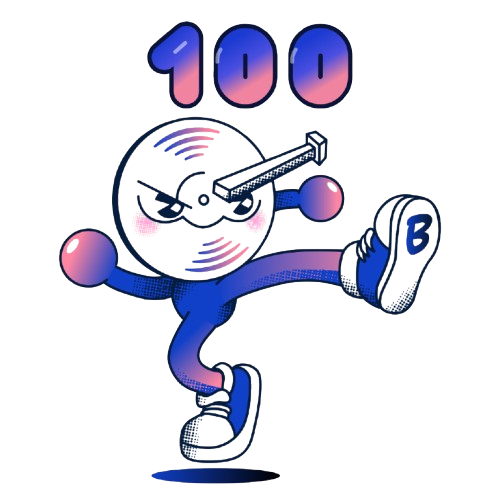
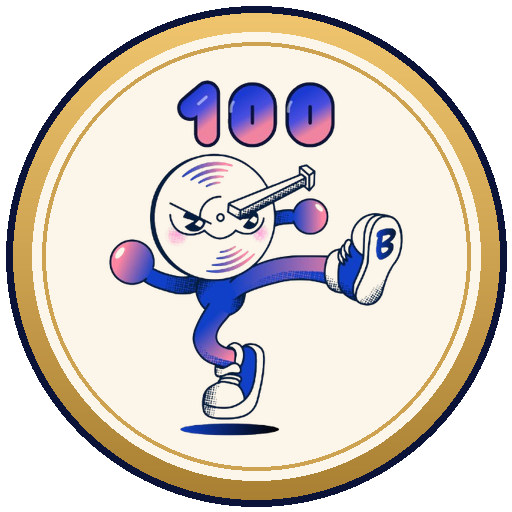
fix(achievements+social): Xenon в допуске сотни, эмаль под маскотом, честный счёт пластинок
- FOUNDER_ALLOWLIST += xenon (живой бетер, реген 31.05, вне отсечки);
- маскоту OG1 собрана эмалевая подложка в стайл-паке (скрипт
  compose_og1_design.py: тёмный кант → золотой градиент → эмаль) —
  раньше персонаж «парил» без фона рядом с эмалевыми пинами;
- счётчики «N пластинок» (поиск юзеров, профили, пуши, new-this-week)
  считают DISTINCT record_id: папки дублируют записи, count(id)
  показывал 105 вместо реального числа.

diff --git a/Вертушка/Design/style-pack-achievements/scripts/compose_og1_design.py b/Вертушка/Design/style-pack-achievements/scripts/compose_og1_design.py
@@ -1,0 +1,77 @@
+#!/usr/bin/env python3
+"""Подложка-эмаль для маскота «Первой сотни».
+
+Остальные design-PNG — сами по себе эмалевые значки (форма арта = форма пина),
+а маскот — персонаж на прозрачном фоне, в шите он «парил» без подложки.
+Собираем как в стайл-паке: тёмный кант → золотое кольцо (вертикальный градиент,
+как в gen_og1_pin.py) → эмаль слоновой кости → маскот.
+
+    python3 compose_og1_design.py <mascot.png> <out.png>
+"""
+import sys
+
+from PIL import Image, ImageDraw
+
+SIZE = 512
+NAVY = (11, 20, 56, 255)        # #0B1438
+IVORY = (251, 245, 234, 255)    # #FBF5EA
+GOLD_TOP = (242, 199, 112)      # #F2C770
+GOLD_BOTTOM = (168, 126, 50)    # #A87E32
+
+R_OUTER = 250      # тёмный кант
+R_GOLD = 243       # золотое кольцо
+R_ENAMEL = 224     # эмаль
+R_PINLINE = 214    # тонкая золотая линия на эмали
+MASCOT_BOX = 384   # сторона квадрата под маскота
+
+
+def _circle(draw: ImageDraw.ImageDraw, r: int, fill) -> None:
+    c = SIZE // 2
+    draw.ellipse((c - r, c - r, c + r, c + r), fill=fill)
+
+
+def _gold_gradient_disc(r: int) -> Image.Image:
+    """Диск с вертикальным градиентом золота (маска-круг поверх градиента)."""
+    grad = Image.new("RGBA", (SIZE, SIZE))
+    for y in range(SIZE):
+        t = y / (SIZE - 1)
+        color = tuple(
+            int(GOLD_TOP[i] + (GOLD_BOTTOM[i] - GOLD_TOP[i]) * t) for i in range(3)
+        ) + (255,)
+        ImageDraw.Draw(grad).line([(0, y), (SIZE, y)], fill=color)
+    mask = Image.new("L", (SIZE, SIZE), 0)
+    _circle(ImageDraw.Draw(mask), r, 255)
+    disc = Image.new("RGBA", (SIZE, SIZE), (0, 0, 0, 0))
+    disc.paste(grad, (0, 0), mask)
+    return disc
+
+
+def main(mascot_path: str, out_path: str) -> None:
+    canvas = Image.new("RGBA", (SIZE, SIZE), (0, 0, 0, 0))
+    draw = ImageDraw.Draw(canvas)
+
+    _circle(draw, R_OUTER, NAVY)
+    canvas.alpha_composite(_gold_gradient_disc(R_GOLD))
+    draw = ImageDraw.Draw(canvas)
+    _circle(draw, R_ENAMEL, IVORY)
+    c = SIZE // 2
+    draw.ellipse(
+        (c - R_PINLINE, c - R_PINLINE, c + R_PINLINE, c + R_PINLINE),
+        outline=tuple(int((GOLD_TOP[i] + GOLD_BOTTOM[i]) / 2) for i in range(3)) + (255,),
+        width=4,
+    )
+
+    mascot = Image.open(mascot_path).convert("RGBA")
+    mascot.thumbnail((MASCOT_BOX, MASCOT_BOX), Image.LANCZOS)
+    x = (SIZE - mascot.width) // 2
+    y = (SIZE - mascot.height) // 2
+    canvas.alpha_composite(mascot, (x, y))
+
+    canvas.save(out_path, "PNG", optimize=True)
+    print(f"OK: {out_path} ({SIZE}×{SIZE})")
+
+
+if __name__ == "__main__":
+    if len(sys.argv) != 3:
+        sys.exit(__doc__)
+    main(sys.argv[1], sys.argv[2])

diff --git a/Вертушка/Backend/app/api/users.py b/Вертушка/Backend/app/api/users.py
@@ -49,9 +49,12 @@ async def _is_profile_private(db: AsyncSession, user_id: UUID) -> bool:
 
 
 async def _collection_size(db: AsyncSession, user_id: UUID) -> int:
-    """Сколько пластинок в коллекции — для body социальных пушей."""
+    """Сколько пластинок в коллекции — для body социальных пушей.
+
+    DISTINCT record_id: папки — это копии записей основной коллекции,
+    count(id) по всем коллекциям задваивал счёт."""
     total = await db.scalar(
-        select(func.count(CollectionItem.id))
+        select(func.count(func.distinct(CollectionItem.record_id)))
         .join(Collection, CollectionItem.collection_id == Collection.id)
         .where(Collection.user_id == user_id)
     )
@@ -129,7 +132,8 @@ async def search_users(
         .label("following_count")
     )
     collection_sub = (
-        select(func.count(CollectionItem.id))
+        # DISTINCT record_id: папки дублируют записи, count(id) врал в поиске.
+        select(func.count(func.distinct(CollectionItem.record_id)))
         .join(Collection, CollectionItem.collection_id == Collection.id)
         .where(Collection.user_id == User.id)
         .correlate(User)
@@ -235,7 +239,8 @@ async def get_user_by_username(
         select(func.count(Follow.id)).where(Follow.follower_id == user.id)
     )
     collection_count = await db.scalar(
-        select(func.count(CollectionItem.id))
+        # DISTINCT record_id: папки дублируют записи основной коллекции.
+        select(func.count(func.distinct(CollectionItem.record_id)))
         .join(Collection)
         .where(Collection.user_id == user.id)
     )
@@ -818,7 +823,8 @@ async def get_user_profile(
         select(func.count(Follow.id)).where(Follow.follower_id == user.id)
     )
     collection_count = await db.scalar(
-        select(func.count(CollectionItem.id))
+        # DISTINCT record_id: папки дублируют записи основной коллекции.
+        select(func.count(func.distinct(CollectionItem.record_id)))
         .join(Collection)
         .where(Collection.user_id == user.id)
     )

diff --git a/Вертушка/Backend/app/services/achievements/definitions/series/origins.py b/Вертушка/Backend/app/services/achievements/definitions/series/origins.py
@@ -42,7 +42,7 @@ OG1_CODE = "OG1_first_hundred"
 
 #: Живые бета-аккаунты, которые входят в «первую сотню» независимо от даты
 #: регистрации. Сравнение по lower(username).
-FOUNDER_ALLOWLIST = frozenset({"hhbbbgcdc7", "genia_pazla", "andrei"})
+FOUNDER_ALLOWLIST = frozenset({"hhbbbgcdc7", "genia_pazla", "andrei", "xenon"})
 
 #: Аккаунты, созданные с этого момента (UTC), попадают в зачёт автоматически.
 #: Перед релизом в сторе можно сдвинуть на дату релиза — но помни: любой

diff --git a/Вертушка/Backend/app/services/profile_stats.py b/Вертушка/Backend/app/services/profile_stats.py
@@ -265,7 +265,8 @@ async def compute_fun_stats(user_id: UUID, db: AsyncSession) -> list[dict]:
         # Новых за последние 7 дней
         week_ago = now_utc_naive - timedelta(days=7)
         new_this_week = await db.scalar(
-            select(func.count(CollectionItem.id))
+            # DISTINCT: копия в папке не делает пластинку «новой» дважды.
+            select(func.count(func.distinct(CollectionItem.record_id)))
             .join(Collection, Collection.id == CollectionItem.collection_id)
             .where(
                 Collection.user_id == user_id,
